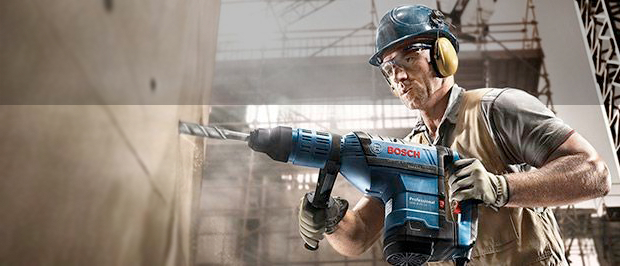
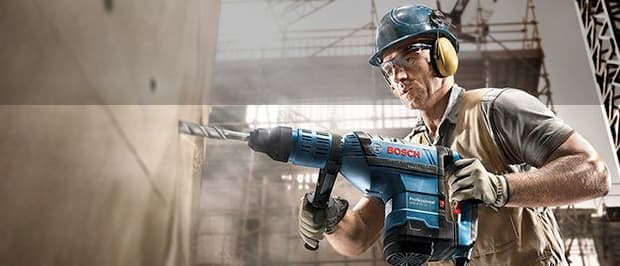
добавил ползунок на страницу каталога.Заменил фото, из-за размера, сделал меньше без потери качества

diff --git a/catalog.html b/catalog.html
@@ -83,8 +83,19 @@
     </section>
     <section>
       <h2>Фильтр:</h2>
-      <h2>Цена</h2>
-<!--      Ползунок фильтрующий диапозон цен -->
+<!--      <h2>Цена</h2>-->
+      <form method="post" oninput="price_output_min.value=price_filter.value" class="price">
+        <div>
+          <label for="price_filter">Цена</label> <br>
+          <input type="range" id="price_filter" name="price_filter" min="1" max="30000" step="1">
+        </div>
+        <div>
+          <output name="price_output_min">0</output>
+          <output name="price_output_max">30000</output>
+        </div>
+      </form>
+
+
 <!--      две ячейки показывающие цифры -->
       <h2>Производители</h2>
       <form action="http://echo.htmlacademy.ru" method="get" aria-label="Фильтр по производителю и питанию">
@@ -338,7 +349,6 @@
       </div>
     </section>
   </footer>
-
 
 </body>
 </html>
